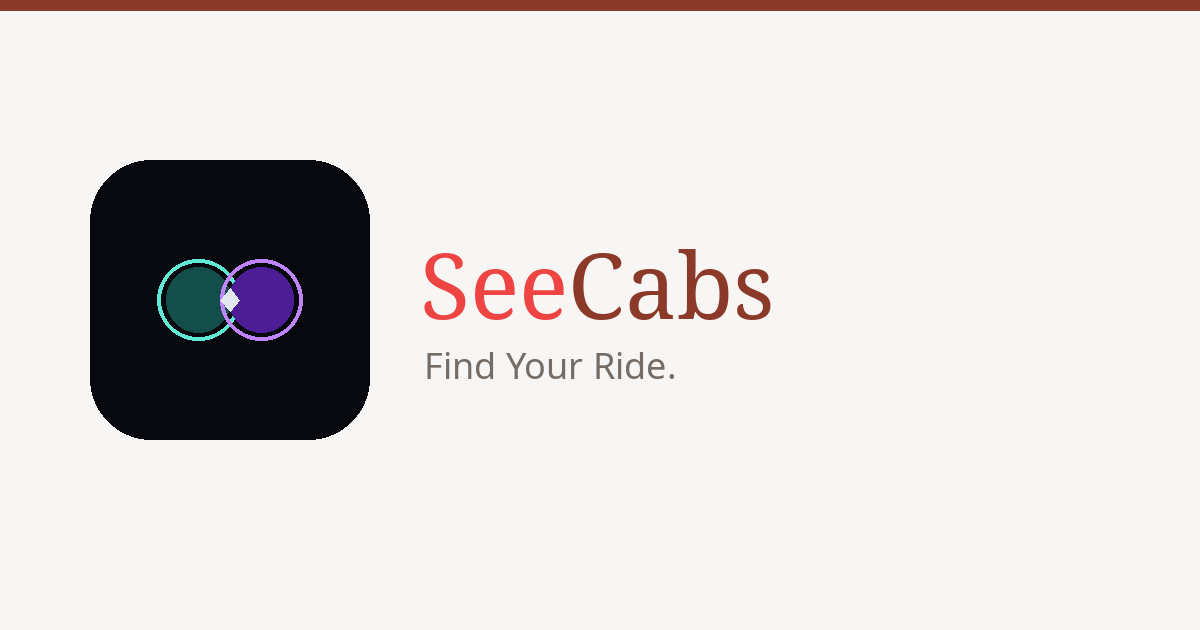
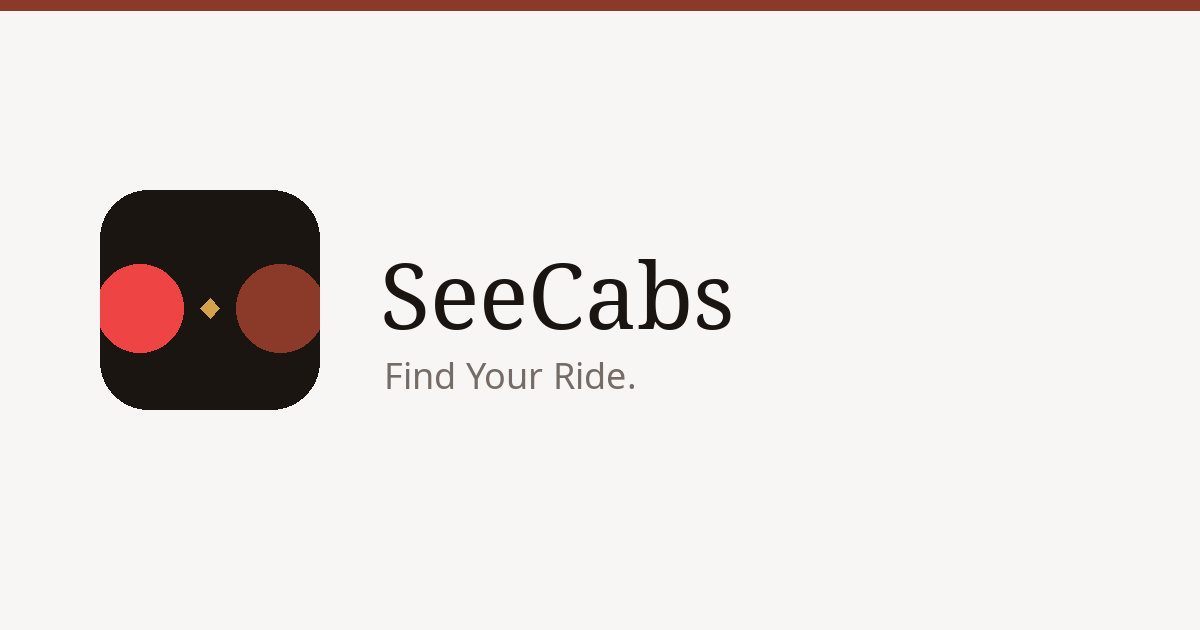
Fit the binoculars to the wordmark.
The lenses use the same red and terracotta as S and Cabs, overlap as one mark, and sit at the height of the letters with even gaps.

Changed region(s): [[0.0617, 0.2413, 0.6475, 0.7238]]

diff --git a/src/components/logo-mark.tsx b/src/components/logo-mark.tsx
@@ -1,128 +1,66 @@
 import { useId } from "react";
 
-export function LogoMark({ className = "h-9 w-9" }: { className?: string }) {
+export function LogoMark({ className = "h-[0.98em]" }: { className?: string }) {
   const uid = useId().replace(/:/g, "");
   const fillL = `${uid}-fillL`;
   const fillR = `${uid}-fillR`;
-  const ringL = `${uid}-ringL`;
-  const ringR = `${uid}-ringR`;
-  const bridge = `${uid}-bridge`;
   const prism = `${uid}-prism`;
-  const mix = `${uid}-mix`;
-  const soft = `${uid}-soft`;
-  const strong = `${uid}-strong`;
 
   return (
-    <svg viewBox="84 112 232 176" aria-hidden="true" className={`logo-mark ${className}`}>
+    <svg viewBox="0 0 52 32" aria-hidden="true" className={`logo-mark ${className}`}>
       <defs>
-        <radialGradient id={fillL} cx="36%" cy="32%" r="72%">
-          <stop offset="0%" stopColor="#ccfbf1" />
-          <stop offset="38%" stopColor="#14b8a6" />
-          <stop offset="100%" stopColor="#042f2e" />
+        <radialGradient id={fillL} cx="34%" cy="30%" r="75%">
+          <stop offset="0%" stopColor="#fecaca" />
+          <stop offset="48%" stopColor="#ef4444" />
+          <stop offset="100%" stopColor="#dc2626" />
         </radialGradient>
-        <radialGradient id={fillR} cx="36%" cy="32%" r="72%">
-          <stop offset="0%" stopColor="#f3e8ff" />
-          <stop offset="38%" stopColor="#8b5cf6" />
-          <stop offset="100%" stopColor="#2e1065" />
+        <radialGradient id={fillR} cx="34%" cy="30%" r="75%">
+          <stop offset="0%" stopColor="#f6d2c4" />
+          <stop offset="50%" stopColor="#a34b38" />
+          <stop offset="100%" stopColor="#8b3a2a" />
         </radialGradient>
-        <linearGradient id={ringL} x1="0" y1="0" x2="1" y2="1">
-          <stop offset="0%" stopColor="#5eead4" />
-          <stop offset="100%" stopColor="#0f766e" />
-        </linearGradient>
-        <linearGradient id={ringR} x1="0" y1="0" x2="1" y2="1">
-          <stop offset="0%" stopColor="#e9d5ff" />
-          <stop offset="100%" stopColor="#7e22ce" />
-        </linearGradient>
-        <linearGradient id={bridge} x1="0" y1="0" x2="1" y2="0">
-          <stop offset="0%" stopColor="#5eead4" />
-          <stop offset="50%" stopColor="#e2e8f0" />
-          <stop offset="100%" stopColor="#c084fc" />
-        </linearGradient>
         <linearGradient id={prism} x1="0" y1="0" x2="1" y2="1">
-          <stop offset="0%" stopColor="#5eead4" />
-          <stop offset="50%" stopColor="#f0f9ff" />
-          <stop offset="100%" stopColor="#c084fc" />
+          <stop offset="0%" stopColor="#fff7ed" />
+          <stop offset="48%" stopColor="#d4a24a" />
+          <stop offset="100%" stopColor="#8b3a2a" />
         </linearGradient>
-        <radialGradient id={mix} cx="50%" cy="50%" r="50%">
-          <stop offset="0%" stopColor="#a5f3fc" stopOpacity=".55" />
-          <stop offset="55%" stopColor="#c4b5fd" stopOpacity=".22" />
-          <stop offset="100%" stopColor="#c4b5fd" stopOpacity="0" />
-        </radialGradient>
-        <filter id={soft} x="-60%" y="-60%" width="220%" height="220%">
-          <feGaussianBlur stdDeviation="5" result="b" />
-          <feMerge>
-            <feMergeNode in="b" />
-            <feMergeNode in="SourceGraphic" />
-          </feMerge>
-        </filter>
-        <filter id={strong} x="-100%" y="-100%" width="300%" height="300%">
-          <feGaussianBlur stdDeviation="8" result="b" />
-          <feMerge>
-            <feMergeNode in="b" />
-            <feMergeNode in="b" />
-            <feMergeNode in="SourceGraphic" />
-          </feMerge>
-        </filter>
       </defs>
       <g className="logo-breathe">
-        <g fill="none" strokeWidth="1.7" opacity=".55">
-          <line className="logo-persp" x1="200" y1="200" x2="46" y2="70" stroke="#5eead4" />
-          <line className="logo-persp logo-persp-2" x1="200" y1="200" x2="354" y2="70" stroke="#c084fc" />
-          <line className="logo-persp logo-persp-3" x1="200" y1="200" x2="46" y2="330" stroke="#5eead4" />
-          <line className="logo-persp logo-persp-4" x1="200" y1="200" x2="354" y2="330" stroke="#c084fc" />
-          <line className="logo-persp logo-persp-5" x1="200" y1="200" x2="200" y2="26" stroke="#94a3b8" />
-          <line className="logo-persp logo-persp-6" x1="200" y1="200" x2="200" y2="374" stroke="#94a3b8" />
-        </g>
-        <circle
-          className="logo-ring"
-          cx="200"
-          cy="200"
-          r="96"
-          fill="none"
-          stroke="#64748b"
-          strokeWidth="1.6"
-          strokeDasharray="2 12"
-          strokeLinecap="round"
-          opacity=".7"
-        />
-        <line x1="94" y1="200" x2="306" y2="200" stroke={`url(#${bridge})`} strokeWidth="1" strokeDasharray="3 7" opacity=".18" />
         <g className="logo-lens-l">
-          <circle className="logo-glow-l" cx="155" cy="200" r="66" fill="#5eead4" opacity=".28" />
-          <circle cx="155" cy="200" r="50" fill={`url(#${fillL})`} />
-          <circle cx="155" cy="200" r="58" fill="none" stroke={`url(#${ringL})`} strokeWidth="5" />
-          <g stroke="#5eead4" strokeWidth="1.4" opacity=".7">
-            <line x1="155" y1="200" x2="119" y2="164" />
-            <line x1="155" y1="200" x2="191" y2="164" />
-            <line x1="155" y1="200" x2="119" y2="236" />
-            <line x1="155" y1="200" x2="191" y2="236" />
-          </g>
-          <path d="M118 170A50 50 0 0 1 165 152" fill="none" stroke="#99f6e4" strokeWidth="2" strokeLinecap="round" opacity=".55" />
+          <circle cx="16" cy="16" r="13.4" fill={`url(#${fillL})`} />
+          <circle cx="16" cy="16" r="13.4" fill="none" stroke="#b91c1c" strokeWidth="1.2" />
+          <path
+            d="M8.4 11.2A8.4 8.4 0 0 1 18.2 7.6"
+            fill="none"
+            stroke="#fff7ed"
+            strokeWidth="1.2"
+            strokeLinecap="round"
+            opacity=".75"
+          />
         </g>
         <g className="logo-lens-r">
-          <circle className="logo-glow-r" cx="245" cy="200" r="66" fill="#c084fc" opacity=".28" />
-          <circle cx="245" cy="200" r="50" fill={`url(#${fillR})`} />
-          <circle cx="245" cy="200" r="58" fill="none" stroke={`url(#${ringR})`} strokeWidth="5" />
-          <g stroke="#c084fc" strokeWidth="1.4" opacity=".7">
-            <line x1="245" y1="200" x2="209" y2="164" />
-            <line x1="245" y1="200" x2="281" y2="164" />
-            <line x1="245" y1="200" x2="209" y2="236" />
-            <line x1="245" y1="200" x2="281" y2="236" />
-          </g>
-          <path d="M208 170A50 50 0 0 1 255 152" fill="none" stroke="#e9d5ff" strokeWidth="2" strokeLinecap="round" opacity=".55" />
+          <circle cx="36" cy="16" r="13.4" fill={`url(#${fillR})`} />
+          <circle cx="36" cy="16" r="13.4" fill="none" stroke="#6f2e22" strokeWidth="1.2" />
+          <path
+            d="M28.4 11.2A8.4 8.4 0 0 1 38.2 7.6"
+            fill="none"
+            stroke="#fff7ed"
+            strokeWidth="1.2"
+            strokeLinecap="round"
+            opacity=".6"
+          />
         </g>
-        <ellipse cx="200" cy="200" rx="24" ry="48" fill={`url(#${mix})`} filter={`url(#${soft})`} opacity=".8" />
-        <path d="M178 158Q200 146 222 158" fill="none" stroke={`url(#${bridge})`} strokeWidth="2.5" strokeLinecap="round" filter={`url(#${soft})`} opacity=".85" />
-        <line className="logo-scan" x1="186" y1="168" x2="214" y2="168" stroke="#0f172a" strokeWidth="1.6" strokeLinecap="round" />
+        <path
+          d="M21.5 6.8Q26 3.8 30.5 6.8"
+          fill="none"
+          stroke="#d4a24a"
+          strokeWidth="1.5"
+          strokeLinecap="round"
+        />
         <g className="logo-prism">
-          <path d="M200 184L214 200L200 216L186 200Z" fill={`url(#${prism})`} filter={`url(#${strong})`} opacity=".95" />
+          <path d="M26 11.4 29.2 16 26 20.6 22.8 16Z" fill={`url(#${prism})`} />
         </g>
-        <circle cx="200" cy="200" r="2.6" fill="#ffffff" opacity=".9" />
-        <circle className="logo-particle" cx="102" cy="142" r="3.2" fill="#14b8a6" />
-        <circle className="logo-particle logo-particle-2" cx="298" cy="142" r="3.2" fill="#a855f7" />
-        <circle className="logo-particle logo-particle-3" cx="102" cy="258" r="2.6" fill="#14b8a6" />
-        <circle className="logo-particle logo-particle-4" cx="298" cy="258" r="2.6" fill="#a855f7" />
-        <circle className="logo-particle logo-particle-5" cx="200" cy="128" r="2.2" fill="#334155" />
-        <circle className="logo-particle logo-particle-6" cx="200" cy="274" r="2.2" fill="#334155" />
+        <circle cx="26" cy="16" r="1.05" fill="#fff7ed" />
       </g>
     </svg>
   );

diff --git a/src/app/globals.css b/src/app/globals.css
@@ -425,123 +425,54 @@ h2,
 }
 
 .logo-mark {
-  aspect-ratio: 232 / 176;
+  aspect-ratio: 52 / 32;
   width: auto;
-  overflow: hidden;
+  overflow: visible;
 }
 
 @media (prefers-reduced-motion: no-preference) {
   .logo-breathe {
     transform-box: fill-box;
     transform-origin: center;
-    animation: logo-breathe 6s ease-in-out infinite;
+    animation: logo-breathe 5.5s ease-in-out infinite;
   }
 
   .logo-lens-l,
   .logo-lens-r,
-  .logo-ring,
-  .logo-prism,
-  .logo-particle {
+  .logo-prism {
     transform-box: fill-box;
     transform-origin: center;
   }
 
   .logo-lens-l {
-    animation: logo-lens-pulse 5s ease-in-out infinite;
+    animation: logo-lens-pulse 4.8s ease-in-out infinite;
   }
 
   .logo-lens-r {
-    animation: logo-lens-pulse 5s ease-in-out infinite 1.2s;
-  }
-
-  .logo-glow-l {
-    animation: logo-glow 4s ease-in-out infinite;
-  }
-
-  .logo-glow-r {
-    animation: logo-glow 4s ease-in-out infinite 1s;
-  }
-
-  .logo-ring {
-    animation: logo-spin 44s linear infinite;
+    animation: logo-lens-pulse 4.8s ease-in-out infinite 0.8s;
   }
 
   .logo-prism {
-    animation: logo-prism-turn 16s linear infinite;
+    animation: logo-prism-turn 14s linear infinite;
   }
-
-  .logo-persp {
-    stroke-dasharray: 5 9;
-    animation: logo-dash 8s linear infinite;
-  }
-
-  .logo-persp-2 { animation-delay: 0.6s; }
-  .logo-persp-3 { animation-delay: 1.2s; }
-  .logo-persp-4 { animation-delay: 1.8s; }
-  .logo-persp-5 { animation-delay: 0.3s; }
-  .logo-persp-6 { animation-delay: 0.9s; }
-
-  .logo-scan {
-    transform-box: fill-box;
-    transform-origin: center;
-    animation: logo-scan 4s ease-in-out infinite;
-  }
-
-  .logo-particle {
-    animation: logo-float 5s ease-in-out infinite;
-  }
-
-  .logo-particle-2 { animation-delay: 1.1s; }
-  .logo-particle-3 { animation-delay: 2.2s; }
-  .logo-particle-4 { animation-delay: 3.3s; }
-  .logo-particle-5 { animation-delay: 1.7s; }
-  .logo-particle-6 { animation-delay: 2.8s; }
 }
 
 @keyframes logo-breathe {
   0%,
   100% { transform: scale(1); }
-  50% { transform: scale(1.06); }
+  50% { transform: scale(1.035); }
 }
 
 @keyframes logo-lens-pulse {
   0%,
   100% { transform: scale(1); }
-  50% { transform: scale(1.08); }
-}
-
-@keyframes logo-glow {
-  0%,
-  100% { opacity: 0.16; }
-  50% { opacity: 0.55; }
-}
-
-@keyframes logo-spin {
-  to { transform: rotate(360deg); }
+  50% { transform: scale(1.045); }
 }
 
 @keyframes logo-prism-turn {
   0% { transform: rotate(0deg) scale(1); }
-  25% { transform: rotate(90deg) scale(1.35); }
-  50% { transform: rotate(180deg) scale(1); }
-  75% { transform: rotate(270deg) scale(1.35); }
+  50% { transform: rotate(180deg) scale(1.12); }
   100% { transform: rotate(360deg) scale(1); }
-}
-
-@keyframes logo-dash {
-  to { stroke-dashoffset: -28; }
-}
-
-@keyframes logo-scan {
-  0%,
-  100% { opacity: 0.25; transform: translateY(-5px); }
-  50% { opacity: 1; transform: translateY(5px); }
-}
-
-@keyframes logo-float {
-  0%,
-  100% { transform: translate(0, 0); opacity: 0.35; }
-  50% { transform: translate(3px, -6px); opacity: 1; }
 }
 
 .wordmark-see {

diff --git a/src/components/wordmark.tsx b/src/components/wordmark.tsx
@@ -11,22 +11,18 @@ export function Wordmark({
 }) {
   const letters =
     size === "lg"
-      ? "text-[2.15rem] leading-none sm:text-[2.45rem]"
-      : "text-[1.45rem] leading-none sm:text-[2rem]";
-  const mark =
-    size === "lg"
-      ? "mx-1.5 h-[4.5rem] sm:h-20"
-      : "mx-1 h-14 sm:mx-1.5 sm:h-[4.5rem]";
+      ? "text-[1.85rem] sm:text-[2.15rem]"
+      : "text-[1.42rem] sm:text-[1.7rem]";
 
   const lockup = (
     <span className="flex min-w-0 flex-col">
-      <span className={`wordmark flex items-center ${letters}`}>
+      <span className={`wordmark flex items-center leading-none tracking-[-0.03em] ${letters}`}>
         <span className="wordmark-see">S</span>
-        <LogoMark className={mark} />
-        <span className="wordmark-cabs ml-[0.2em]">Cabs</span>
+        <LogoMark className="mx-[0.05em] h-[1.08em]" />
+        <span className="wordmark-cabs">Cabs</span>
       </span>
       <span
-        className={`block truncate font-medium tracking-wide text-muted ${
+        className={`block truncate font-medium tracking-[0.01em] text-muted ${
           size === "lg" ? "mt-1 text-sm" : "mt-0.5 text-[11px] sm:text-xs"
         }`}
       >
